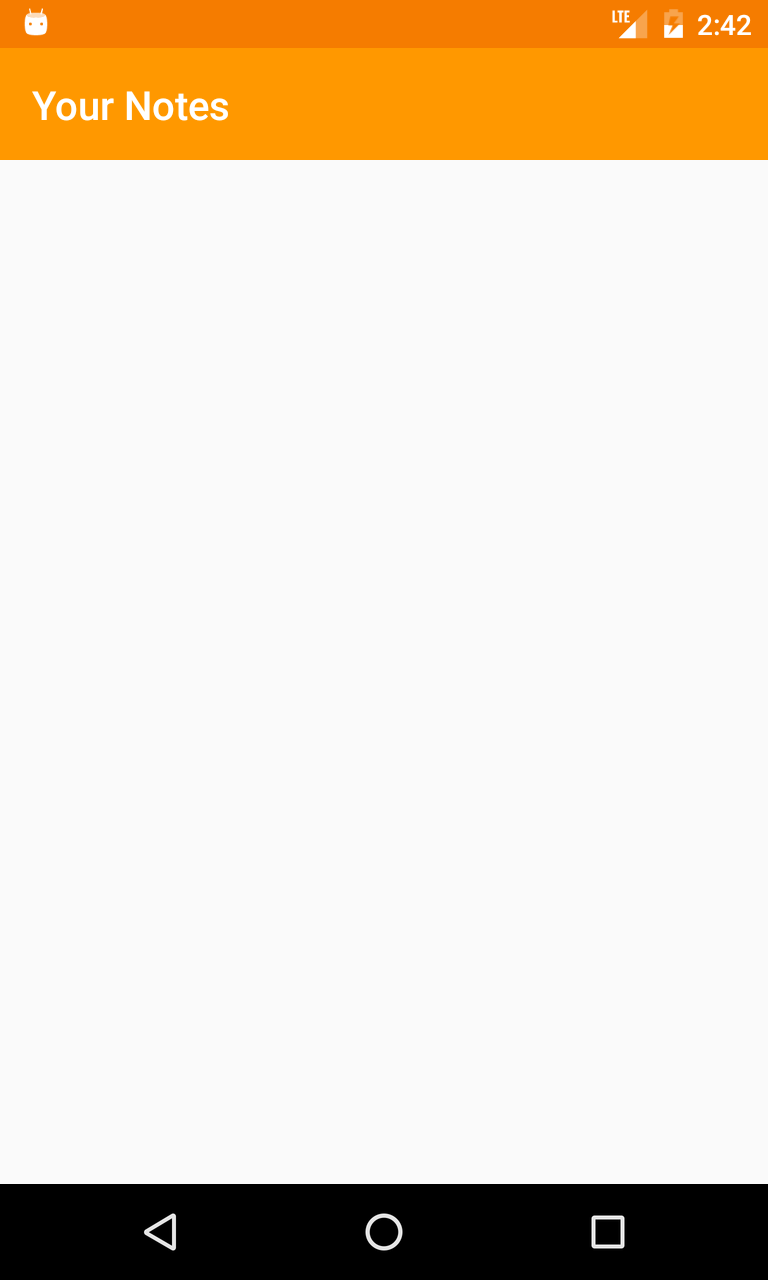
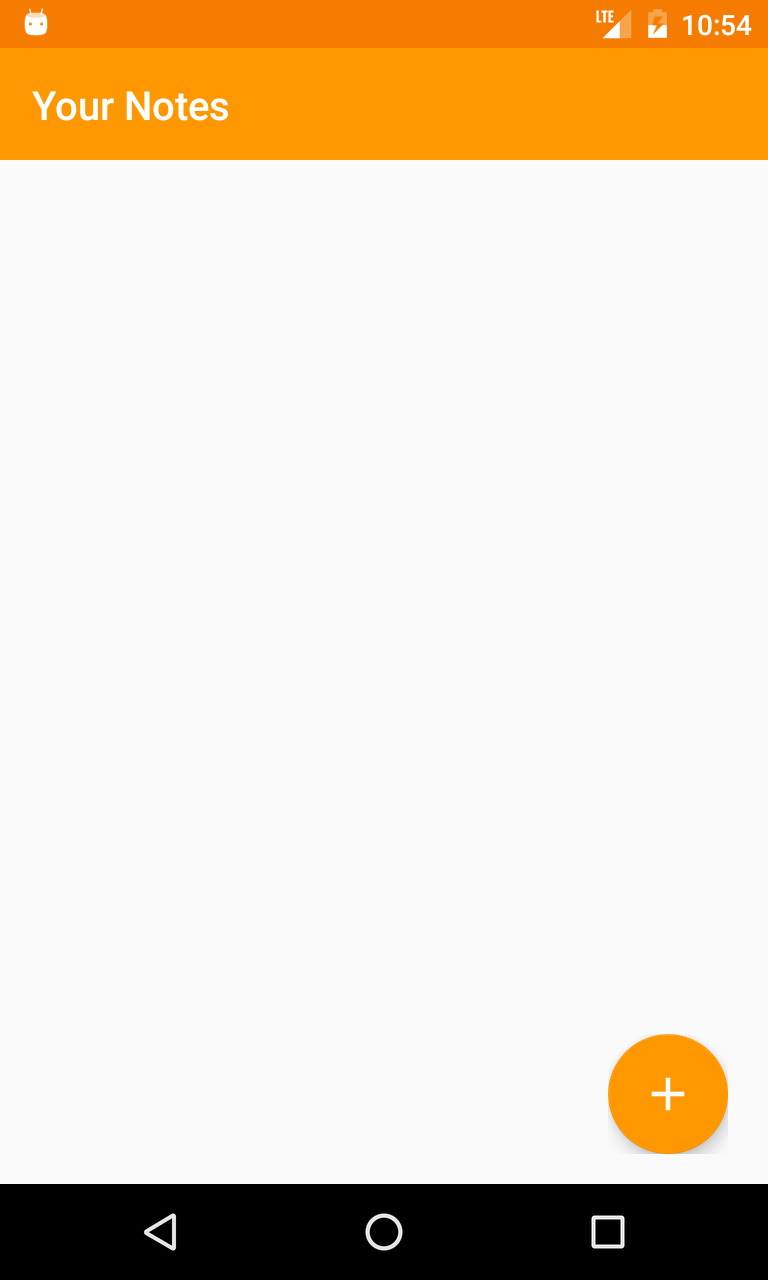
chore: update screenshots

Changed region(s): [[0.7812, 0.7812, 0.9688, 0.9062], [0.7812, 0.0, 1.0, 0.0312]]

diff --git a/README.md b/README.md
@@ -16,3 +16,7 @@ A simple android notes app using Google's Firebase as the backend
 **Home**
 
 ![Home](https://github.com/bolorundurowb/firenotes/blob/master/Screenshots/android/home.png) ![Home](https://github.com/bolorundurowb/firenotes/blob/master/Screenshots/ios/home.png)
+
+**New Note**
+
+![Home](https://github.com/bolorundurowb/firenotes/blob/master/Screenshots/android/new-note.png) ![Home](https://github.com/bolorundurowb/firenotes/blob/master/Screenshots/ios/new-note.png)
